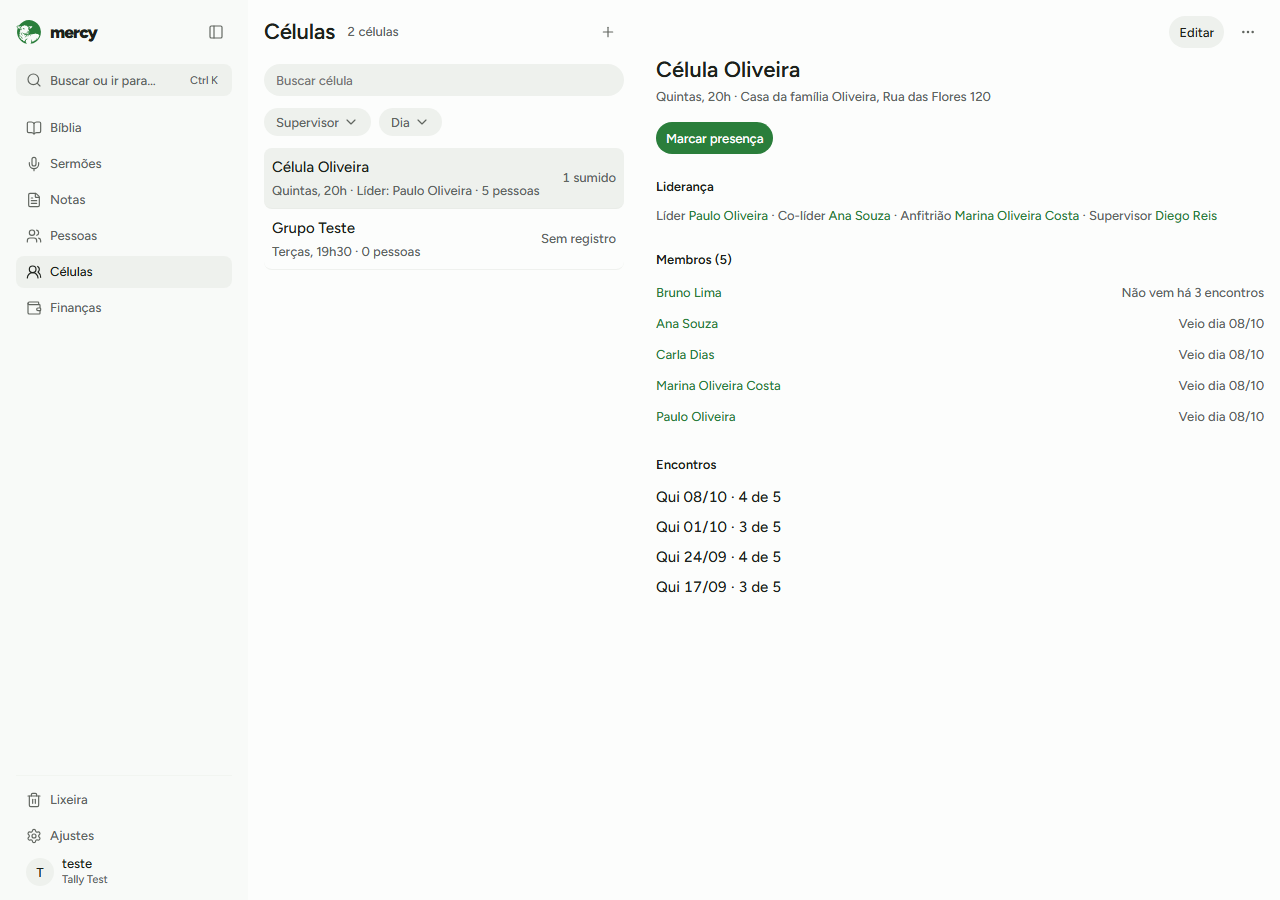
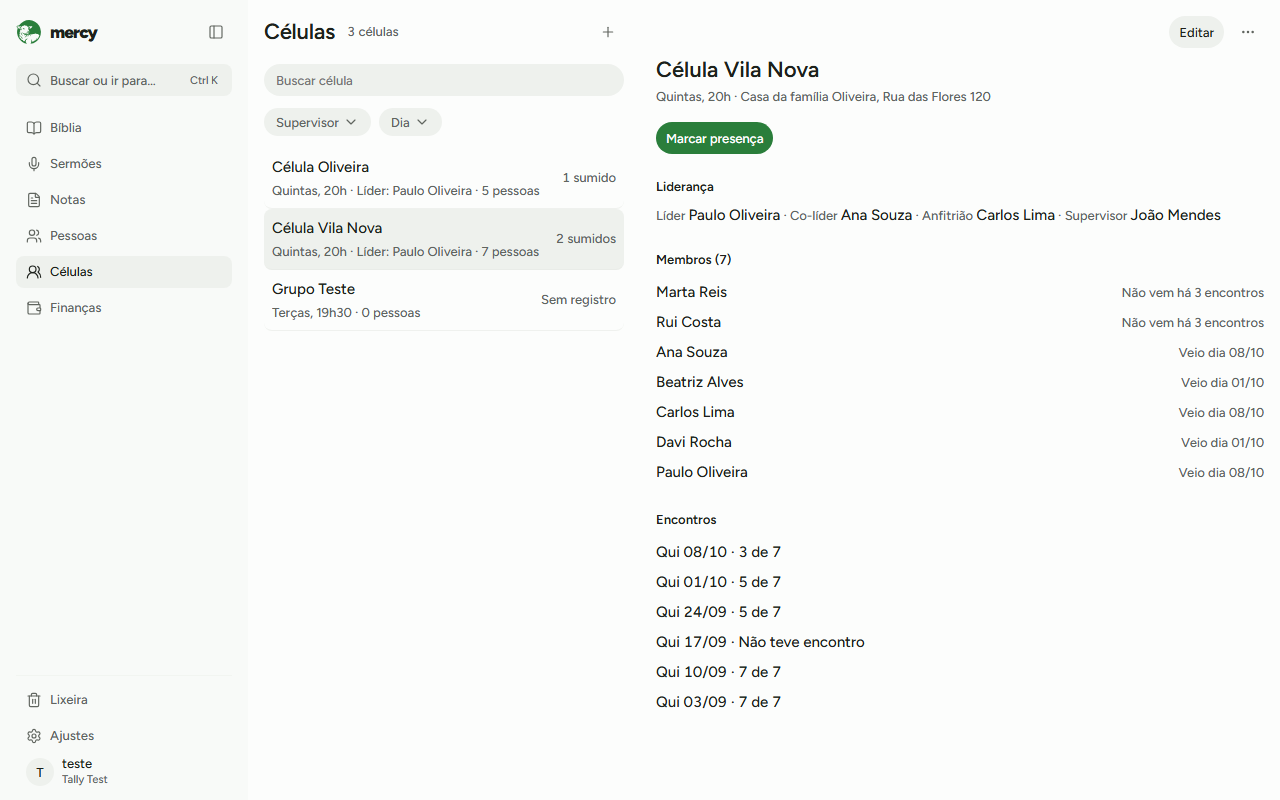
feat(groups): e2e da aba Mais e do encontro sem puxar entrada, prévias do líder e da barra de abas (B4)

diff --git a/e2e/groups.spec.ts b/e2e/groups.spec.ts
@@ -74,6 +74,7 @@ test("células: criar, adicionar membros, marcar presença, reabrir o dia e regi
   await expect(page.getByRole("heading", { name: "Membros (3)" })).toBeVisible();
   await expect(page.getByText("Ainda sem presença")).toHaveCount(3);
 
+  // (o dia padrão é anterior à entrada do terceiro, que não veio: o encontro conta 2 de 2, sem mexer na entrada)
   // marcar presença de 2 no dia padrão (último dia da semana da célula)
   await page.getByRole("button", { name: "Marcar presença" }).click();
   const dialog = page.getByRole("dialog", { name: "Presença" });
@@ -83,10 +84,10 @@ test("células: criar, adicionar membros, marcar presença, reabrir o dia e regi
   await expect(dialog.getByText("2 de 3")).toBeVisible();
   await dialog.getByRole("button", { name: "Salvar" }).click();
   await expect(dialog).toHaveCount(0);
-  await expect(page.getByRole("button", { name: /· 2 de 3$/ })).toHaveCount(1);
+  await expect(page.getByRole("button", { name: /· 2 de 2$/ })).toHaveCount(1);
 
   // reabrir o dia pelo encontro: 2 marcados
-  await page.getByRole("button", { name: /· 2 de 3$/ }).click();
+  await page.getByRole("button", { name: /· 2 de 2$/ }).click();
   await expect(dialog.getByRole("checkbox", { checked: true })).toHaveCount(2);
   await expect(dialog.getByRole("checkbox", { name: people[2]! })).toHaveAttribute("aria-checked", "false");
   await page.keyboard.press("Escape");
@@ -113,4 +114,21 @@ test("células: criar, adicionar membros, marcar presença, reabrir o dia e regi
   await page.goto(`/people/${a!.id}`);
   await expect(page.getByRole("link", { name: cellName })).toHaveAttribute("href", `/groups?g=${id}`);
   await expect(page.getByText(/\(desde [a-z]{3}\/\d{4}\)/)).toBeVisible();
+});
+
+// Celular (390px): com Pessoas e Células a barra passa de 5 itens, então mostra 4 e o resto vai em "Mais".
+test("barra de abas do celular: 4 itens + Mais com o resto", async ({ page }) => {
+  await page.setViewportSize({ width: 390, height: 844 });
+  await page.goto("/login");
+  await page.getByPlaceholder("E-mail").fill(EMAIL);
+  await page.getByPlaceholder("Senha").fill(PASSWORD);
+  await page.getByRole("button", { name: "Entrar" }).click();
+  await expect(page).toHaveURL(/\/study/, { timeout: 30000 });
+  const bar = page.getByRole("navigation", { name: "Menu" }).last();
+  await expect(bar.getByRole("link")).toHaveCount(4);
+  await bar.getByRole("button", { name: "Mais" }).click();
+  await expect(page.getByRole("menuitem", { name: "Ajustes" })).toBeVisible();
+  await expect(page.getByRole("menuitem", { name: "Sermões" })).toBeVisible();
+  await page.keyboard.press("Escape");
+  await expect(page.getByRole("menuitem", { name: "Ajustes" })).toHaveCount(0);
 });

diff --git a/e2e/bible-search.spec.ts b/e2e/bible-search.spec.ts
@@ -47,7 +47,8 @@ test.describe("celular", () => {
   test("aba Buscar e frase entre aspas", async ({ page }) => {
     test.setTimeout(120000);
     await login(page);
-    await page.getByRole("link", { name: "Buscar" }).click();
+    await page.getByRole("button", { name: "Mais" }).click(); // com 8 itens, Buscar fica em "Mais"
+    await page.getByRole("menuitem", { name: "Buscar" }).click();
     await expect(page).toHaveURL(/\/study\/busca$/);
     await page.getByRole("searchbox", { name: "Buscar na Bíblia" }).fill('"pão da vida"');
     await page.getByRole("button", { name: "Buscar", exact: true }).click();
